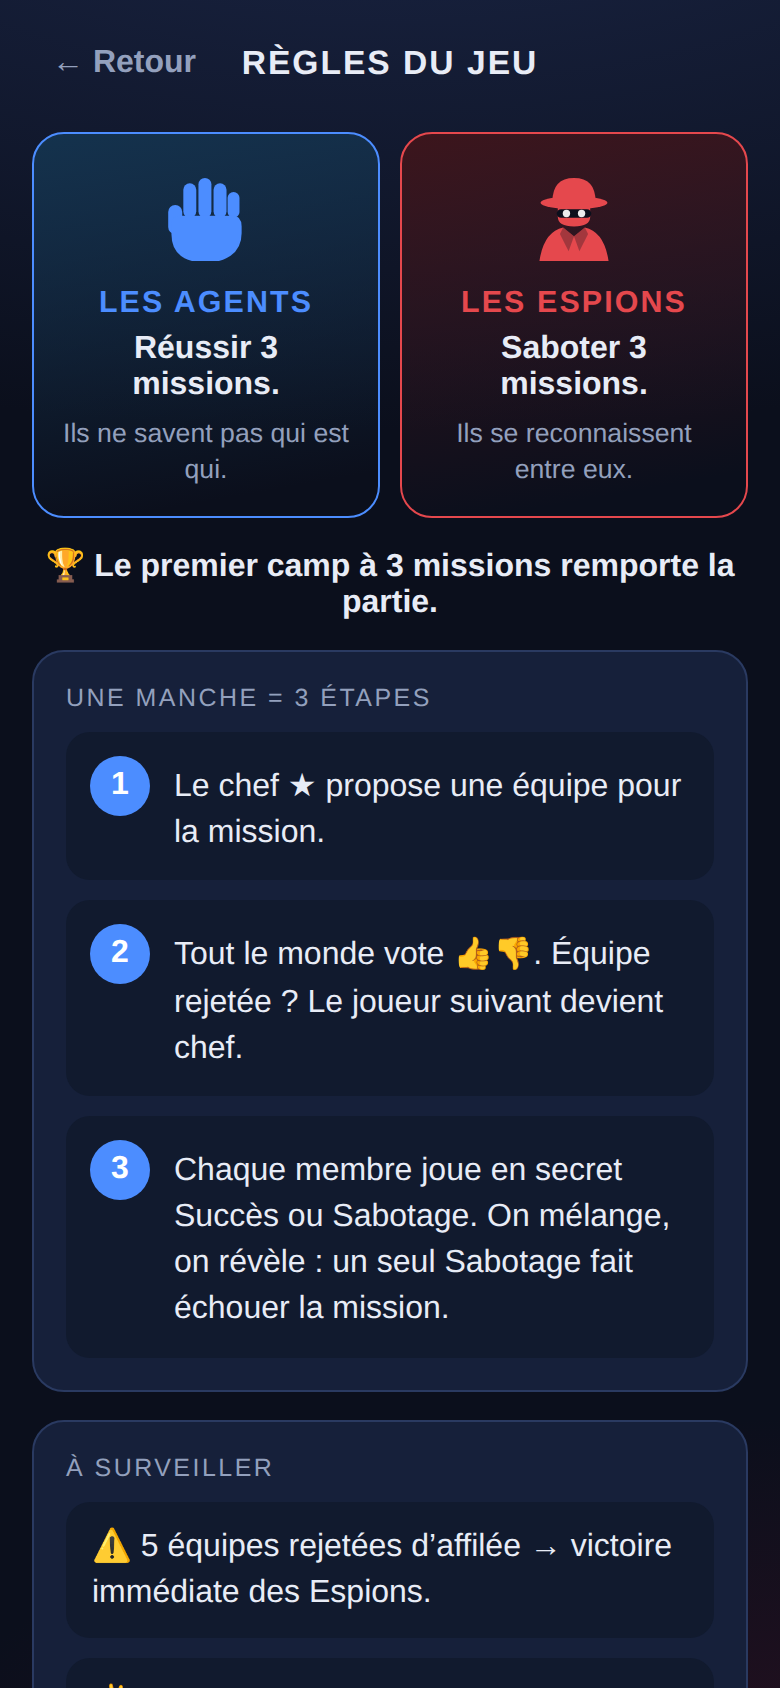
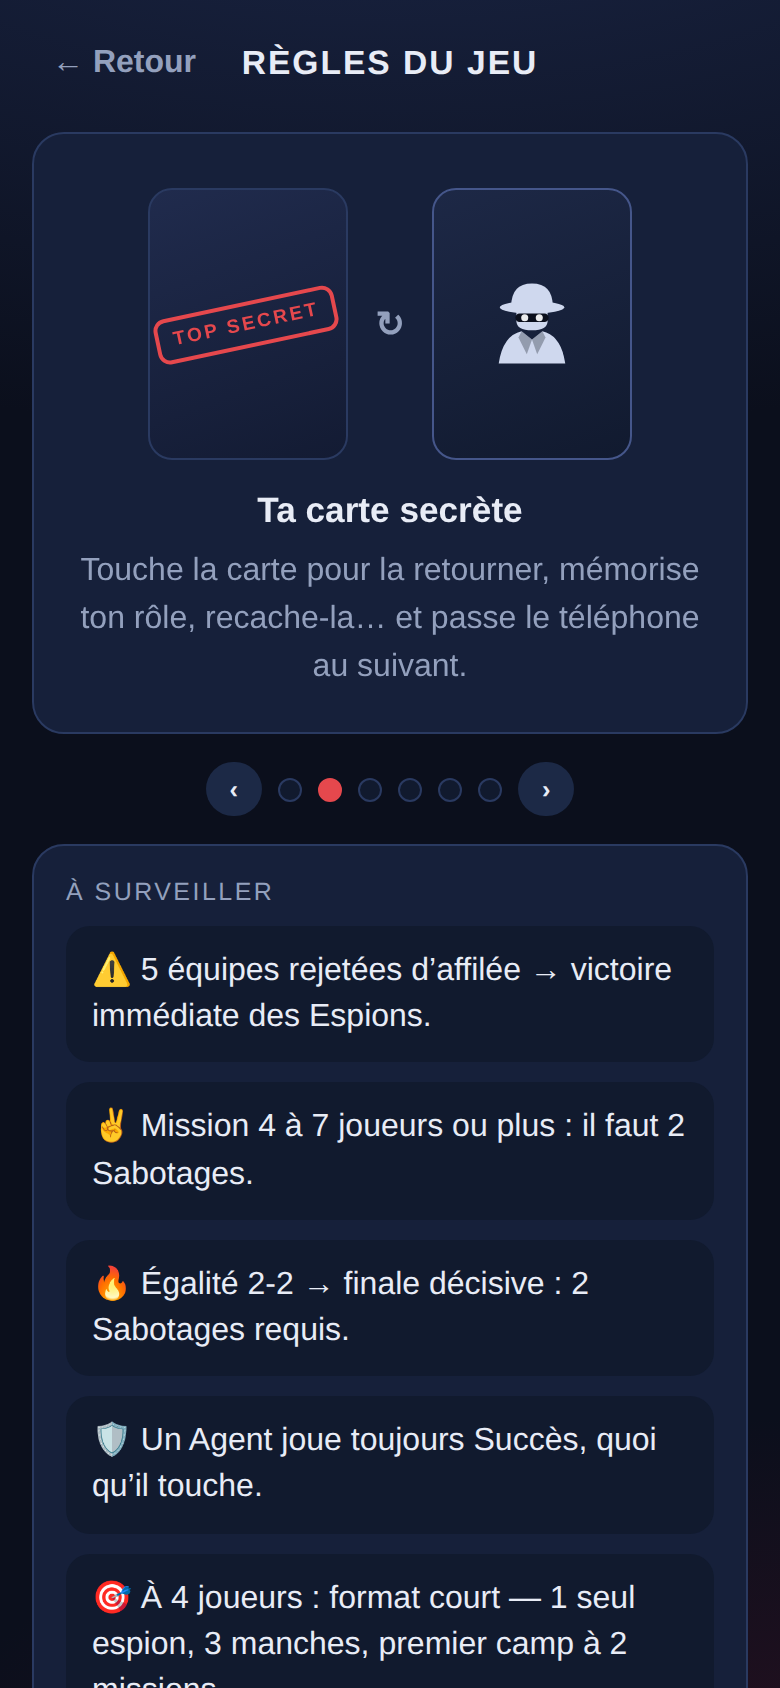
Tutoriel « Comment jouer » en pages illustrées
Les règles s'apprennent désormais en 6 pages à balayer du doigt
(molette/flèches aussi), chacune illustrée avec les vrais composants du
jeu : les deux camps, la carte secrète qui se retourne, la sélection
d'équipe du chef, le vote, les cartes de mission, la victoire.
Points de navigation synchronisés au défilement (scroll-snap natif).
Les sections « À surveiller », options et table de répartition restent
en dessous comme aide-mémoire. Test navigateur du pager ; cache v14.

Claude-Session: https://claude.ai/code/session_01JPXwtAPd76jqgUSm7TX1WG

diff --git a/js/app.js b/js/app.js
@@ -507,6 +507,7 @@
       case 'gameover': app.innerHTML = viewGameOver(); break;
       case 'rules': app.innerHTML = viewRules(); break;
     }
+    bindTutorial();
     updateTimerChip();
   }
 
@@ -1009,6 +1010,90 @@
       '</div>';
   }
 
+  // Tutoriel en pages à balayer : chaque page illustre une étape du jeu
+  // avec les vrais composants de l'interface.
+  function tutPages() {
+    return [
+      {
+        h: t('tut.p1h'), t: t('tut.p1t'),
+        illu: '<div class="camp-mini res">' + ICONS.fist + '</div>' +
+          '<span class="tut-vs">VS</span>' +
+          '<div class="camp-mini spy">' + ICONS.spy + '</div>'
+      },
+      {
+        h: t('tut.p2h'), t: t('tut.p2t'),
+        illu: '<div class="tut-card-back"><span>' + t('reveal.secret') + '</span></div>' +
+          '<span class="tut-vs">↻</span>' +
+          '<div class="tut-card-front">' + ICONS.spy + '</div>'
+      },
+      {
+        h: t('tut.p3h'), t: t('tut.p3t'),
+        illu: '<div class="tut-chips">' +
+          '<div class="pchip"><span class="star">★</span>&nbsp;Ana</div>' +
+          '<div class="pchip sel">Bilal<span class="check">✓</span></div>' +
+          '<div class="pchip sel">Chloé<span class="check">✓</span></div>' +
+          '</div>'
+      },
+      {
+        h: t('tut.p4h'), t: t('tut.p4t'),
+        illu: '<div class="tut-chips">' +
+          '<div class="vote-row"><span class="vote-name">Ana</span><span class="vote-btns">' +
+          '<span class="vbtn up on">👍</span><span class="vbtn down">👎</span></span></div>' +
+          '<div class="vote-row"><span class="vote-name">Bilal</span><span class="vote-btns">' +
+          '<span class="vbtn up">👍</span><span class="vbtn down on">👎</span></span></div>' +
+          '</div>'
+      },
+      {
+        h: t('tut.p5h'), t: t('tut.p5t'),
+        illu: '<div class="tut-mcards">' +
+          '<div class="mcard neutral success tut-mcard"><span class="mcard-icon">' + ICONS.fist + '</span>' +
+          t('mission.success') + '</div>' +
+          '<div class="mcard neutral fail tut-mcard"><span class="mcard-icon">' + ICONS.spy + '</span>' +
+          t('mission.fail') + '</div>' +
+          '</div>'
+      },
+      {
+        h: t('tut.p6h'), t: t('tut.p6t'),
+        illu: '<div class="mtrack tut-track">' +
+          '<div class="mnode ok">✓</div><div class="mnode ok">✓</div><div class="mnode ok">✓</div>' +
+          '</div><div class="tut-trophy">🏆</div>'
+      }
+    ];
+  }
+
+  function tutPagerHtml() {
+    var pages = tutPages();
+    var pageHtml = pages.map(function (p) {
+      return '<div class="tut-page">' +
+        '<div class="tut-illu">' + p.illu + '</div>' +
+        '<div class="tut-h">' + p.h + '</div>' +
+        '<p class="tut-t">' + p.t + '</p>' +
+        '</div>';
+    }).join('');
+    var dots = pages.map(function (_, i) {
+      return '<span class="pip tut-dot' + (i === 0 ? ' on' : '') + '"></span>';
+    }).join('');
+    return '' +
+      '<div class="tut-pager" id="tut-pager">' + pageHtml + '</div>' +
+      '<div class="tut-dots">' +
+      '  <button class="btn btn-mini" data-action="tutPrev">‹</button>' +
+      dots +
+      '  <button class="btn btn-mini" data-action="tutNext">›</button>' +
+      '</div>';
+  }
+
+  function bindTutorial() {
+    var pager = document.getElementById('tut-pager');
+    if (!pager) return;
+    pager.addEventListener('scroll', function () {
+      var idx = Math.round(pager.scrollLeft / Math.max(1, pager.clientWidth));
+      var dots = document.querySelectorAll('.tut-dot');
+      for (var i = 0; i < dots.length; i++) {
+        dots[i].classList.toggle('on', i === idx);
+      }
+    }, { passive: true });
+  }
+
   function viewRules() {
     var rows = '';
     for (var n = RULES.MIN_PLAYERS; n <= RULES.MAX_PLAYERS; n++) {
@@ -1022,28 +1107,7 @@
       '    <h2>' + t('rules.title') + '</h2><span></span>' +
       '  </header>' +
 
-      '  <div class="camp-cards">' +
-      '    <div class="camp-card res">' +
-      '      <div class="camp-icon">' + ICONS.fist + '</div>' +
-      '      <div class="camp-name">' + t('rules.agents') + '</div>' +
-      '      <p>' + t('rules.agentsGoal') + '</p>' +
-      '      <small>' + t('rules.agentsHint') + '</small>' +
-      '    </div>' +
-      '    <div class="camp-card spy">' +
-      '      <div class="camp-icon">' + ICONS.spy + '</div>' +
-      '      <div class="camp-name">' + t('rules.spies') + '</div>' +
-      '      <p>' + t('rules.spiesGoal') + '</p>' +
-      '      <small>' + t('rules.spiesHint') + '</small>' +
-      '    </div>' +
-      '  </div>' +
-      '  <p class="rules-win">🏆 ' + t('rules.win') + '</p>' +
-
-      '  <section class="card-panel">' +
-      '    <label class="field-label">' + t('rules.how') + '</label>' +
-      '    <div class="step-card"><span class="step-num">1</span><p>' + t('rules.s1') + '</p></div>' +
-      '    <div class="step-card"><span class="step-num">2</span><p>' + t('rules.s2') + '</p></div>' +
-      '    <div class="step-card"><span class="step-num">3</span><p>' + t('rules.s3') + '</p></div>' +
-      '  </section>' +
+      tutPagerHtml() +
 
       '  <section class="card-panel">' +
       '    <label class="field-label">' + t('rules.traps') + '</label>' +
@@ -1089,6 +1153,16 @@
     goHome: function () { state.screen = 'home'; state.quitAsk = false; },
     rules: function () { state.rulesReturn = state.screen; state.screen = 'rules'; },
     rulesBack: function () { state.screen = state.rulesReturn || 'home'; },
+    tutPrev: function () {
+      var p = document.getElementById('tut-pager');
+      if (p) p.scrollBy({ left: -p.clientWidth, behavior: 'smooth' });
+      return 'noRender';
+    },
+    tutNext: function () {
+      var p = document.getElementById('tut-pager');
+      if (p) p.scrollBy({ left: p.clientWidth, behavior: 'smooth' });
+      return 'noRender';
+    },
     toSetup: function () {
       var saved = loadSave();
       if (saved && saved.setup) {

diff --git a/js/i18n.js b/js/i18n.js
@@ -131,17 +131,18 @@ var I18N = {
     'over.home': 'Accueil',
 
     'rules.title': 'Règles du jeu',
-    'rules.agents': 'Les Agents',
-    'rules.agentsGoal': 'Réussir 3 missions.',
-    'rules.agentsHint': 'Ils ne savent pas qui est qui.',
-    'rules.spies': 'Les Espions',
-    'rules.spiesGoal': 'Saboter 3 missions.',
-    'rules.spiesHint': 'Ils se reconnaissent entre eux.',
-    'rules.win': 'Le premier camp à 3 missions remporte la partie.',
-    'rules.how': 'Une manche = 3 étapes',
-    'rules.s1': 'Le chef ★ propose une équipe pour la mission.',
-    'rules.s2': 'Tout le monde vote 👍👎. Équipe rejetée ? Le joueur suivant devient chef.',
-    'rules.s3': 'Chaque membre joue en secret Succès ou Sabotage. On mélange, on révèle : un seul Sabotage fait échouer la mission.',
+    'tut.p1h': 'Deux camps secrets',
+    'tut.p1t': 'La majorité sont des Agents. Les espions se reconnaissent entre eux — personne d’autre ne sait qui est qui.',
+    'tut.p2h': 'Ta carte secrète',
+    'tut.p2t': 'Touche la carte pour la retourner, mémorise ton rôle, recache-la… et passe le téléphone au suivant.',
+    'tut.p3h': 'Le chef propose une équipe',
+    'tut.p3t': 'À chaque manche, le chef ★ sélectionne les joueurs qui partent en mission.',
+    'tut.p4h': 'Tout le monde vote',
+    'tut.p4t': 'Équipe rejetée ? Le joueur suivant devient chef. Cinq rejets d’affilée : les espions gagnent !',
+    'tut.p5h': 'La mission secrète',
+    'tut.p5t': 'Chaque membre joue en secret. Un seul Sabotage fait échouer la mission — et un Agent joue toujours Succès.',
+    'tut.p6h': 'La victoire',
+    'tut.p6t': 'Premier camp à 3 missions (2 en format court à 4 joueurs). Égalité 2-2 : finale décisive, 2 sabotages requis !',
     'rules.traps': 'À surveiller',
     'rules.trap1': '5 équipes rejetées d’affilée → victoire immédiate des Espions.',
     'rules.trap2': 'Mission 4 à 7 joueurs ou plus : il faut 2 Sabotages.',
@@ -298,17 +299,18 @@ var I18N = {
     'over.home': 'Home',
 
     'rules.title': 'How to play',
-    'rules.agents': 'The Agents',
-    'rules.agentsGoal': 'Complete 3 missions.',
-    'rules.agentsHint': 'They don’t know who is who.',
-    'rules.spies': 'The Spies',
-    'rules.spiesGoal': 'Sabotage 3 missions.',
-    'rules.spiesHint': 'They recognize each other.',
-    'rules.win': 'First side to 3 missions wins the game.',
-    'rules.how': 'One round = 3 steps',
-    'rules.s1': 'The leader ★ proposes a mission team.',
-    'rules.s2': 'Everyone votes 👍👎. Team rejected? The next player becomes leader.',
-    'rules.s3': 'Each member secretly plays Success or Sabotage. Shuffle, reveal: one Sabotage fails the mission.',
+    'tut.p1h': 'Two secret sides',
+    'tut.p1t': 'Most players are Agents. The spies recognize each other — nobody else knows who is who.',
+    'tut.p2h': 'Your secret card',
+    'tut.p2t': 'Tap the card to flip it, memorize your role, hide it… then hand the phone to the next player.',
+    'tut.p3h': 'The leader picks a team',
+    'tut.p3t': 'Each round, the leader ★ selects the players going on the mission.',
+    'tut.p4h': 'Everyone votes',
+    'tut.p4t': 'Team rejected? The next player becomes leader. Five rejections in a row: the spies win!',
+    'tut.p5h': 'The secret mission',
+    'tut.p5t': 'Each member plays in secret. A single Sabotage fails the mission — and an Agent always plays Success.',
+    'tut.p6h': 'Victory',
+    'tut.p6t': 'First side to 3 missions (2 in the 4-player short format). 2-2 tie: decisive final, 2 Sabotages required!',
     'rules.traps': 'Watch out',
     'rules.trap1': '5 rejected teams in a row → instant Spy victory.',
     'rules.trap2': 'Mission 4 with 7+ players: 2 Sabotages needed.',

diff --git a/css/style.css b/css/style.css
@@ -551,6 +551,78 @@ body {
 
 /* --- Règles ------------------------------------------------------- */
 
+/* --- Tutoriel en pages -------------------------------------------- */
+
+.tut-pager {
+  display: flex;
+  gap: 12px;
+  overflow-x: auto;
+  scroll-snap-type: x mandatory;
+  scrollbar-width: none;
+  -webkit-overflow-scrolling: touch;
+}
+.tut-pager::-webkit-scrollbar { display: none; }
+.tut-page {
+  flex: 0 0 100%;
+  scroll-snap-align: center;
+  background: var(--panel);
+  border: 1px solid var(--line);
+  border-radius: var(--radius);
+  padding: 20px 16px;
+  display: flex;
+  flex-direction: column;
+  align-items: center;
+  gap: 8px;
+  text-align: center;
+}
+.tut-illu {
+  min-height: 150px;
+  display: flex;
+  align-items: center;
+  justify-content: center;
+  gap: 14px;
+  width: 100%;
+  pointer-events: none;
+}
+.tut-h { font-weight: 800; font-size: 1.1rem; }
+.tut-t { margin: 0; color: var(--muted); line-height: 1.5; }
+.tut-dots { display: flex; align-items: center; justify-content: center; gap: 8px; }
+.tut-vs { font-weight: 800; color: var(--muted); font-size: 1.1rem; }
+.camp-mini {
+  width: 84px; height: 84px;
+  border-radius: 50%;
+  display: flex; align-items: center; justify-content: center;
+}
+.camp-mini svg { width: 46px; height: 46px; }
+.camp-mini.res { background: var(--blue-bg); color: var(--blue); border: 2px solid var(--blue); }
+.camp-mini.spy { background: var(--red-bg); color: var(--red); border: 2px solid var(--red); }
+.tut-card-back, .tut-card-front {
+  width: 100px; height: 136px;
+  border-radius: 12px;
+  border: 1.5px solid var(--line);
+  display: flex; align-items: center; justify-content: center;
+  background: linear-gradient(160deg, var(--back-face-1), var(--back-face-2));
+}
+.tut-card-back span {
+  border: 2px solid var(--red);
+  color: var(--red);
+  font-weight: 800;
+  font-size: 0.6rem;
+  letter-spacing: 0.14em;
+  padding: 4px 7px;
+  border-radius: 6px;
+  transform: rotate(-12deg);
+}
+.tut-card-front { background: linear-gradient(160deg, var(--card-face-1), var(--card-face-2)); border-color: var(--card-line); color: var(--icon-soft); }
+.tut-card-front svg { width: 52px; height: 52px; }
+.tut-chips { display: flex; flex-direction: column; gap: 6px; width: 80%; }
+.tut-mcards { display: flex; gap: 12px; }
+.tut-mcard { width: 96px; aspect-ratio: 3 / 4; font-size: 0.6rem; border-radius: 12px; padding: 6px; letter-spacing: 0.06em; }
+.tut-mcard .mcard-icon svg { width: 34px; height: 34px; }
+.tut-track { width: auto; justify-content: center; gap: 8px; }
+.tut-track .mnode { width: 42px; height: 42px; font-size: 1rem; }
+.tut-trophy { font-size: 2.2rem; }
+
 .camp-cards { display: flex; gap: 10px; }
 .camp-card {
   flex: 1;

diff --git a/tests/e2e.js b/tests/e2e.js
@@ -150,14 +150,17 @@ async function main() {
   assert.ok(await page.evaluate(() => !document.body.classList.contains('theme-light')), 'retour au thème sombre');
   console.log('  ✓ bascule thème clair/sombre');
 
-  // Écran des règles modernisé : deux camps, trois étapes, pièges.
+  // Écran des règles : tutoriel en pages avec illustrations.
   await click('[data-action="rules"]');
-  assert.strictEqual(await page.locator('.camp-card').count(), 2, 'cartes des deux camps');
-  assert.strictEqual(await page.locator('.step-num').count(), 3, '3 étapes');
-  assert.ok(await page.locator('.trap').count() >= 4, 'pièges listés');
+  assert.ok(await page.locator('.tut-page').count() >= 6, 'pages du tutoriel');
+  assert.strictEqual(await page.locator('.camp-mini').count(), 2, 'illustration des camps');
+  assert.ok(await page.locator('.trap').count() >= 5, 'pièges listés');
+  await click('[data-action="tutNext"]');
+  await page.waitForTimeout(500);
+  assert.ok(await page.evaluate(() => document.getElementById('tut-pager').scrollLeft > 50), 'le pager défile');
   await shot('16-regles');
   await click('[data-action="rulesBack"]');
-  console.log('  ✓ écran des règles');
+  console.log('  ✓ tutoriel des règles en pages');
 
   // --- Partie A : 5 joueurs, les espions sabotent 3 missions --------
   await click('[data-action="toSetup"]');

diff --git a/sw.js b/sw.js
@@ -1,5 +1,5 @@
 /* Service worker : mise en cache de l'application pour jouer hors ligne. */
-var CACHE = 'spy-v13';
+var CACHE = 'spy-v14';
 var ASSETS = [
   './',
   './index.html',
